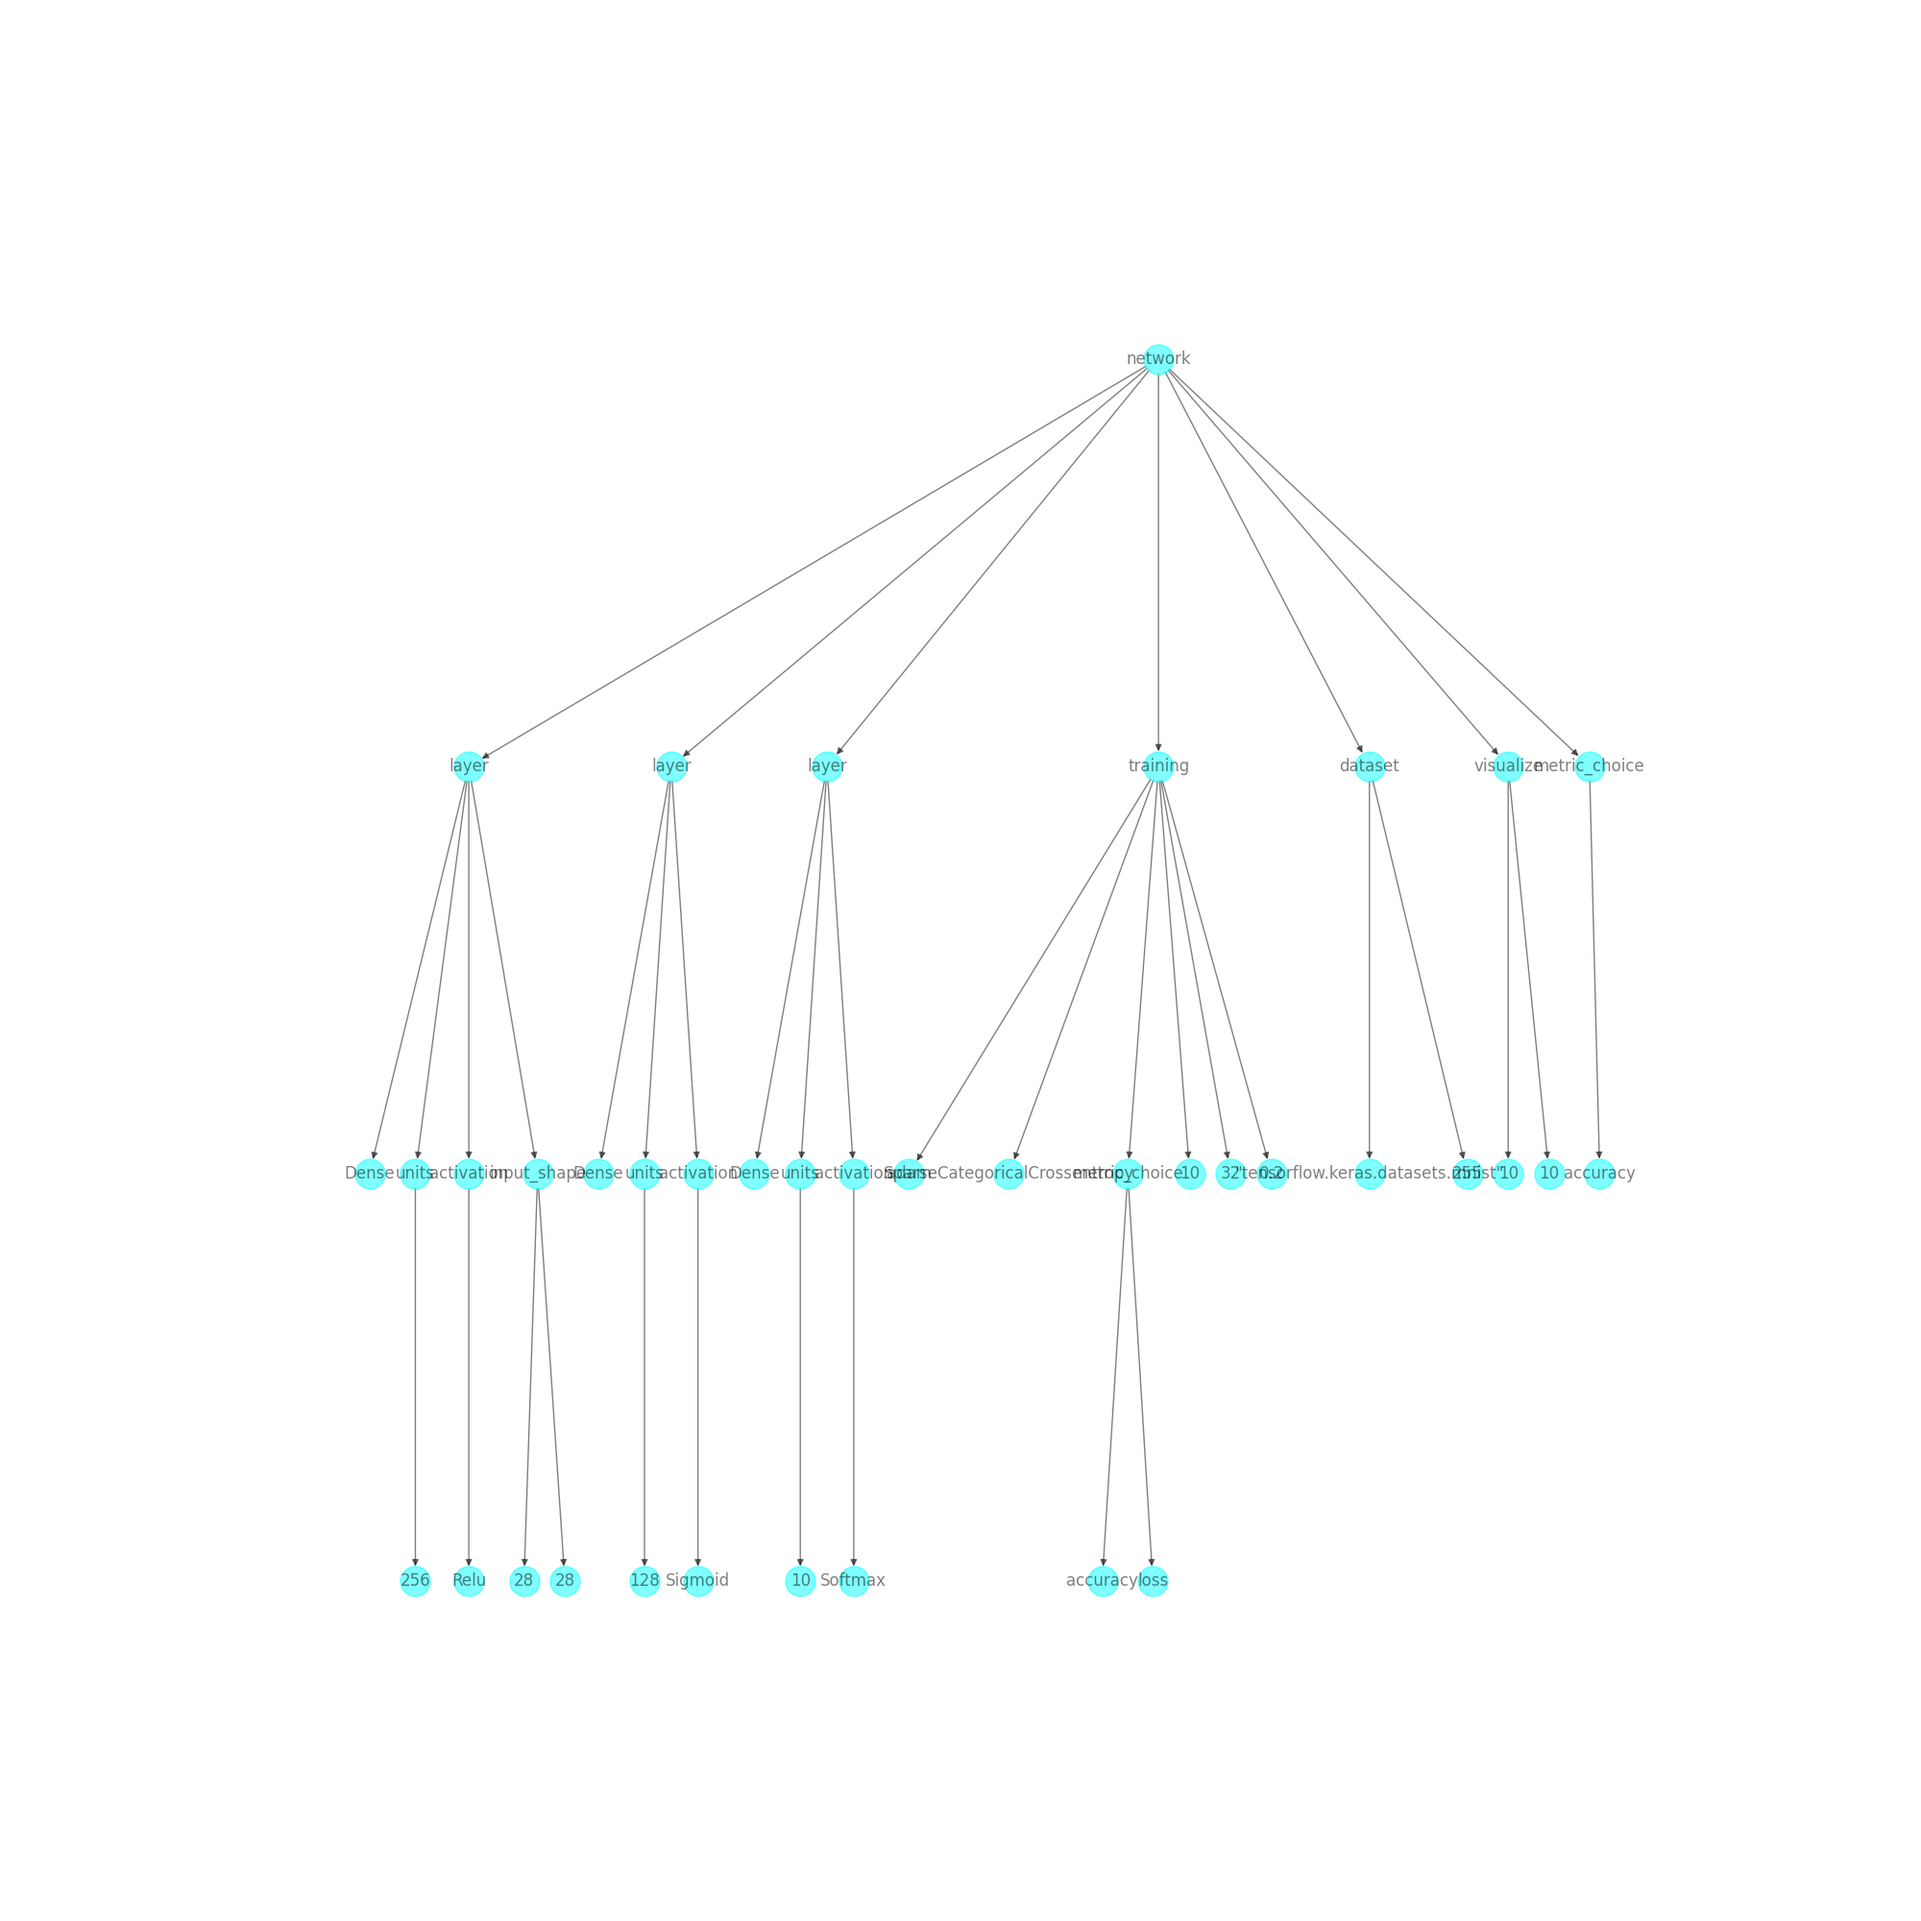
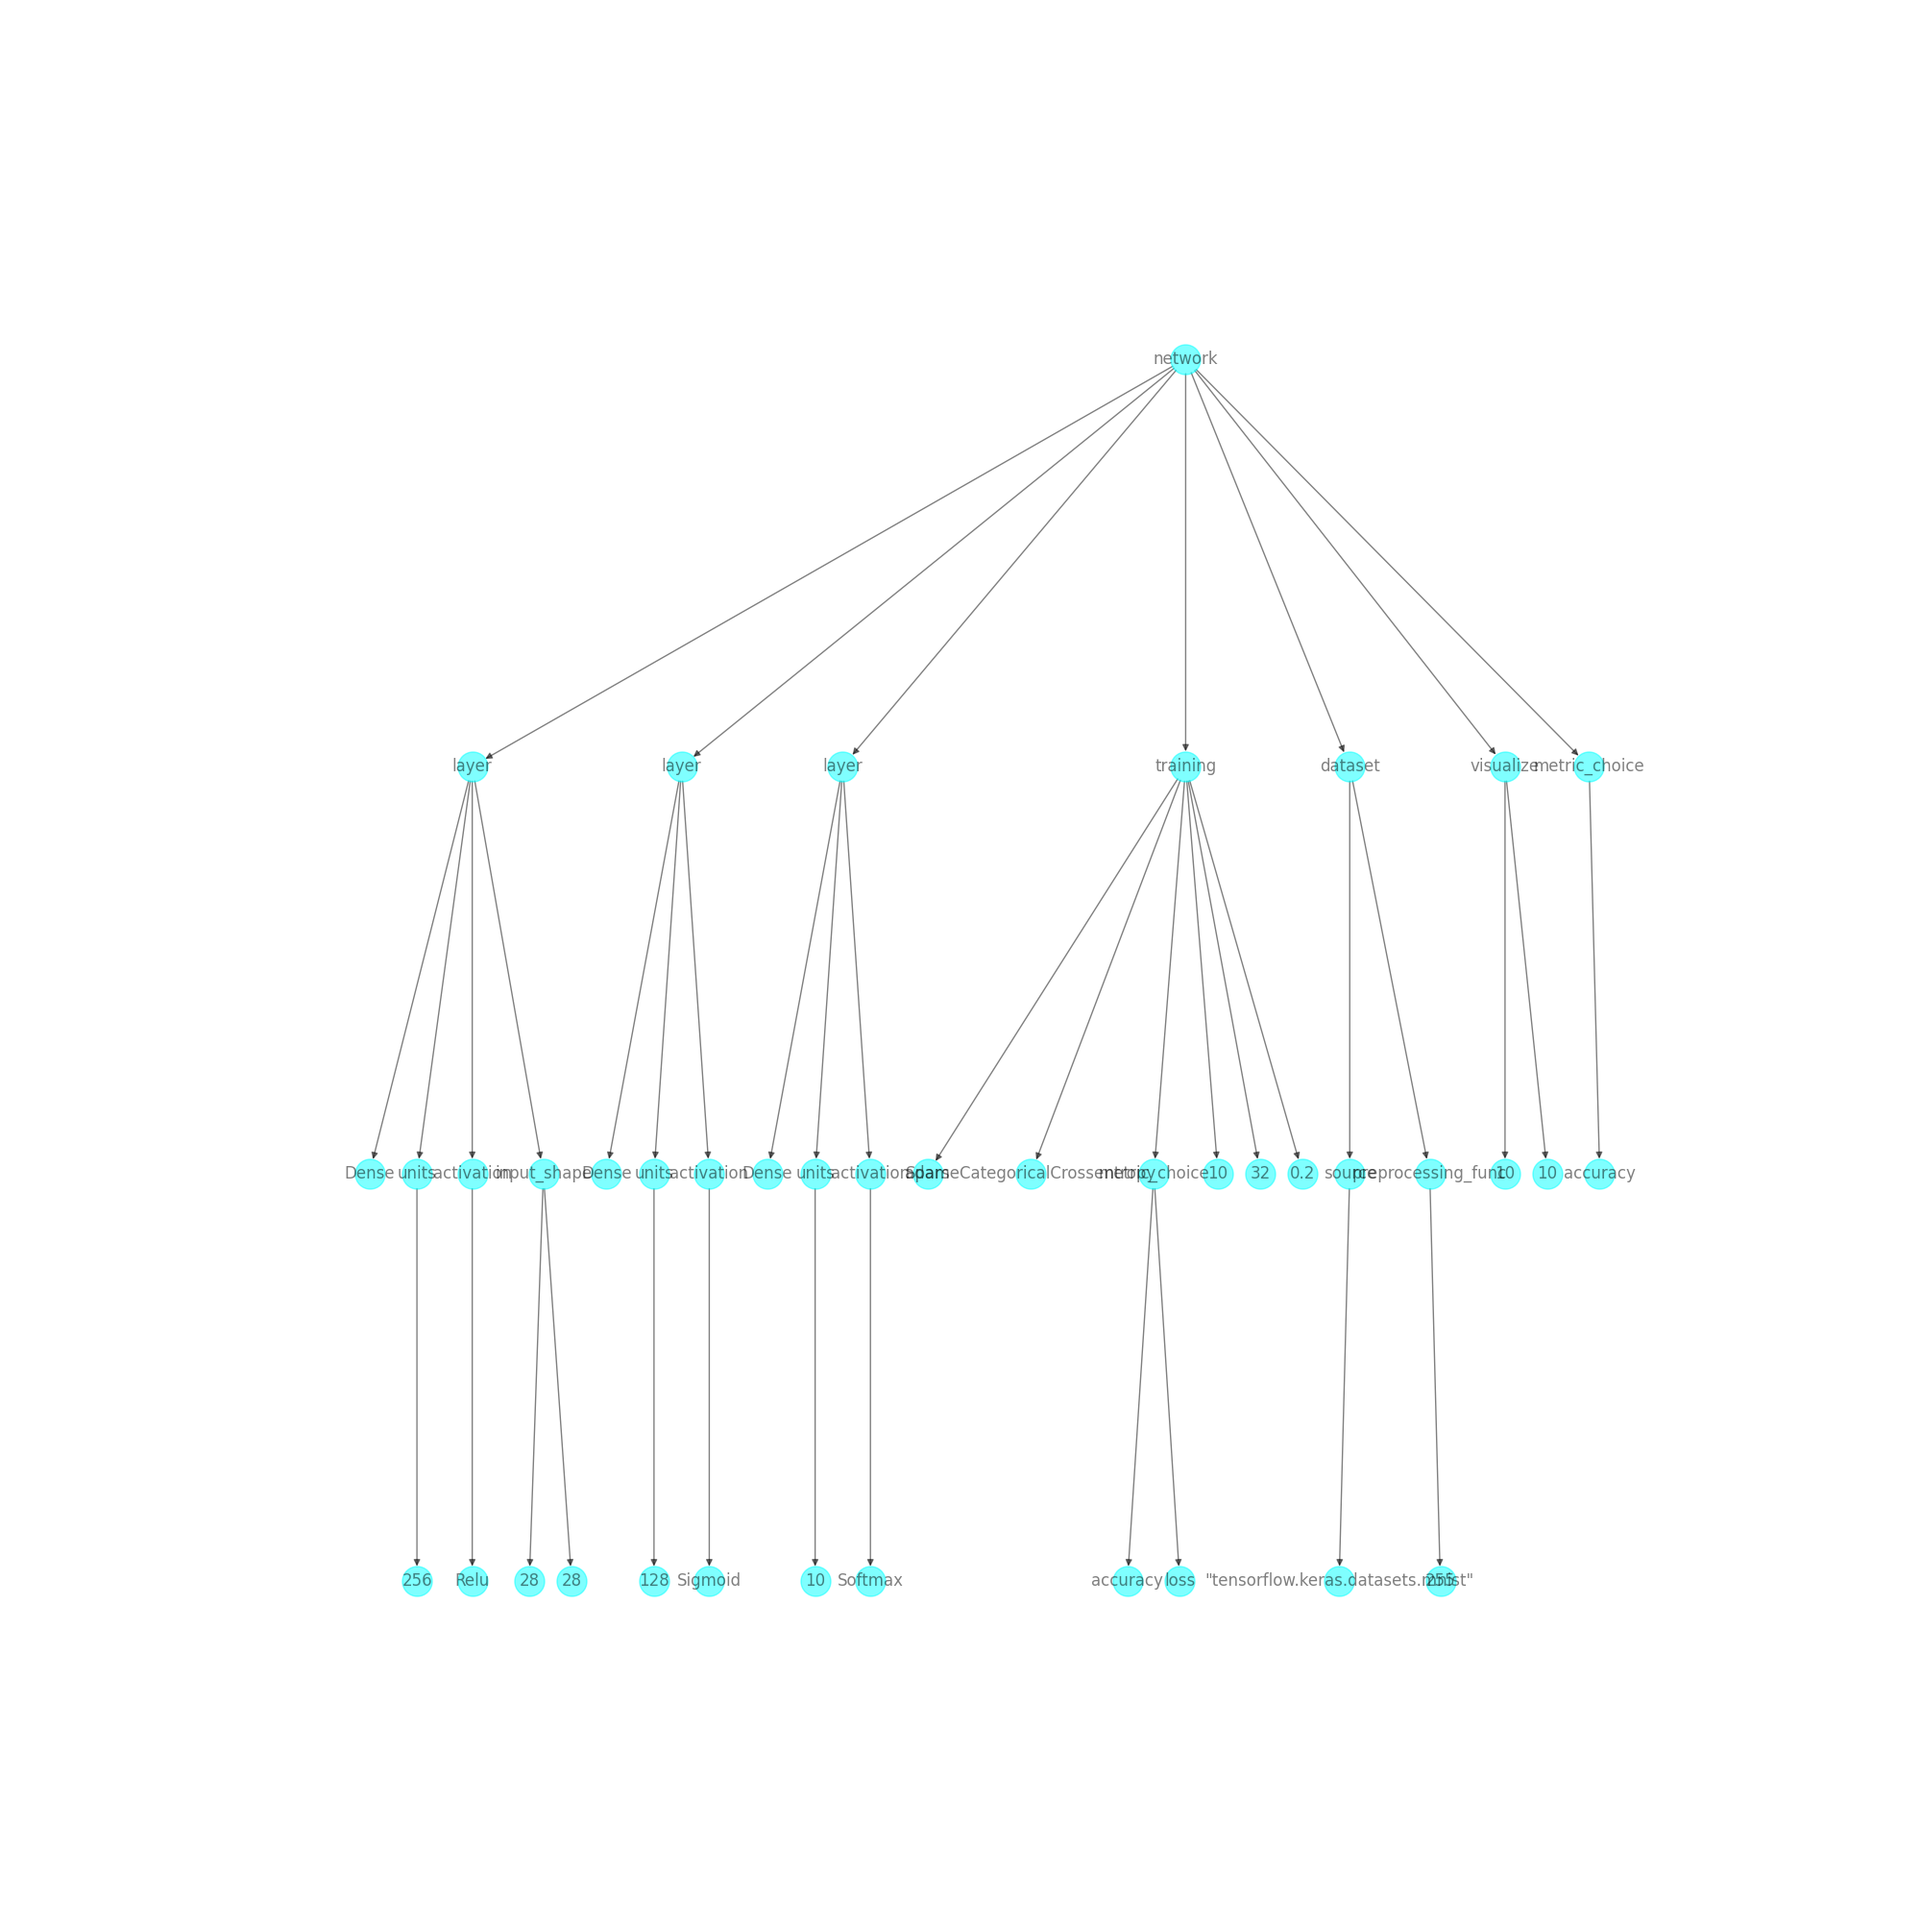
Fix

diff --git a/Code/deepDSLCustomLinstener.py b/Code/deepDSLCustomLinstener.py
@@ -6,7 +6,9 @@ from gen.deepDSLParser import deepDSLParser
 
 class DeepDSLCustomListener(deepDSLListener):
     def __init__(self, rule_names):
-        self.overridden_rules = ['layer', 'types', 'units','training', 'activation','visualize', 'input_shape', 'metric_choice' ,'epoch']
+        self.overridden_rules = ['layer', 'types', 'units','training', 'activation',
+                                 'visualize', 'input_shape', 'metric_choice' ,'epoch',
+                                 'dataset', 'source', 'preprocessing_func']
         self.rule_names = rule_names
         self.ast = AST()
 
@@ -38,6 +40,15 @@ class DeepDSLCustomListener(deepDSLListener):
 
     def exitMetric_choice(self, ctx:deepDSLParser.Input_shapeContext):
         make_ast_subtree(self.ast, ctx, "metric_choice", keep_node=True)
+
+    def exitDataset(self, ctx:deepDSLParser.Input_shapeContext):
+        make_ast_subtree(self.ast, ctx, "dataset", keep_node=True)
+
+    def exitSource(self, ctx:deepDSLParser.Input_shapeContext):
+        make_ast_subtree(self.ast, ctx, "source", keep_node=True)
+
+    def exitPreprocessing_func(self, ctx:deepDSLParser.Input_shapeContext):
+        make_ast_subtree(self.ast, ctx, "preprocessing_func", keep_node=True)
 
     def exitEpochs(self,ctx):
         make_ast_subtree(self.ast, ctx, ctx.getChild(2).getText())
